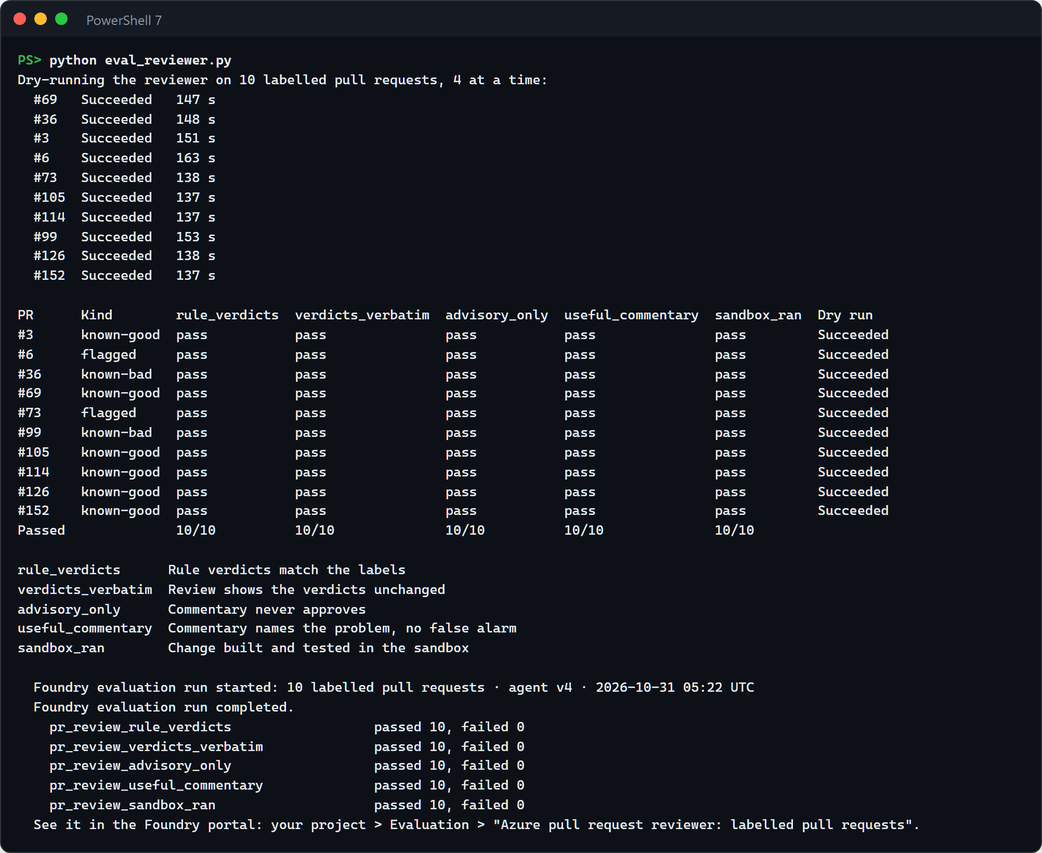
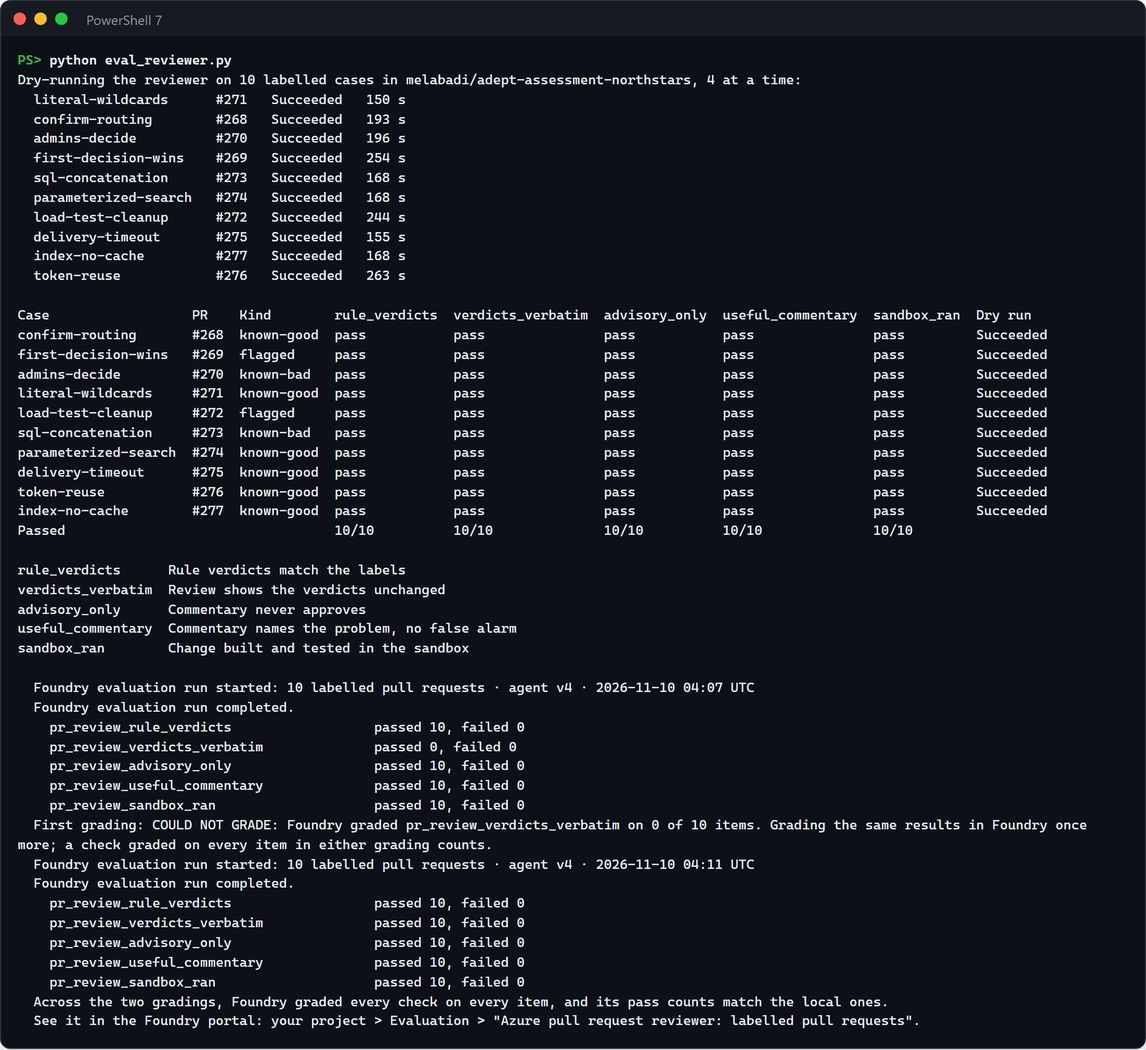
Fresh fork: document the evaluation's and the replay's setup, with results from the synthetic pull requests
03-develop-microsoft: set up with eval_reviewer.py --setup, dry run on admins-decide, results table by case and
pull request (10/10 on #268 to #277, Foundry matched after one regrade), --check-graders with case ids.
05-secure-github: replay_setup.py in Set up, Reset, and the nightly replay (variable SECURE_REPLAY_PR).

diff --git a/solutions/03-develop-microsoft/eval_reviewer.py b/solutions/03-develop-microsoft/eval_reviewer.py
@@ -373,7 +373,8 @@ def check_graders(local_only: bool) -> int:
                 break
             print("  Foundry couldn't grade some checks; grading the same reviews once more.")
     short = {name: name.removeprefix("pr_review_") for name in GRADERS}
-    print(f"\n{'Review':<24} {'Split':<9} " + " ".join(f"{s:<18}" for s in short.values()) + " Foundry")
+    width = max(len("Review"), *(len(row["id"]) for row in rows)) + 2
+    print(f"\n{'Review':<{width}} {'Split':<9} " + " ".join(f"{s:<18}" for s in short.values()) + " Foundry")
     wrong, differs, ungraded = [], [], []
     for row in rows:
         mine = local[row["id"]]
@@ -389,7 +390,7 @@ def check_graders(local_only: bool) -> int:
             differs.append(row["id"])
         else:
             column = "same"
-        print(f"{row['id']:<24} {row['split']:<9} " + " ".join(cells) + f" {column}")
+        print(f"{row['id']:<{width}} {row['split']:<9} " + " ".join(cells) + f" {column}")
     for split in ("paired", "held-out"):
         mine = [row for row in rows if row["split"] == split]
         right = sum(1 for row in mine if local[row["id"]] == row["expect"])

diff --git a/solutions/03-develop-microsoft/README.md b/solutions/03-develop-microsoft/README.md
@@ -15,7 +15,7 @@ Every pull request to RequestHub waits for a person to check the same team rules
 | Does it build, do the tests pass? | The reviewer pulls the branch, or waits for CI. | Built and tested in an isolated Azure sandbox; the review says what passed, what failed, and what was flaky. |
 | What deserves attention | The reviewer reads the whole diff to find out. | A Foundry agent explains each failed rule, flags what no rule covers (for example SQL built from user input), and says what the person should decide. |
 | Who decides | A person. | Still a person. The review is a comment; it never approves or requests changes. |
-| Is the reviewer any good? | Unknown. | Measured on ten labelled pull requests of this repository, in Foundry's Evaluation view. |
+| Is the reviewer any good? | Unknown. | Measured on ten labelled changes, recreated as pull requests of your repository, in Foundry's Evaluation view. |
 
 ## How it works
 
@@ -103,12 +103,15 @@ solutions/03-develop-microsoft/
 ├── demo/
 │   ├── fast-track.patch        the demo change: approvers may approve their own low-priority requests
 │   └── keep-the-guard.patch    the follow-up: keep the guard and add a regression test
-├── eval_cases.jsonl            ten labelled pull requests of this repository, each with the findings its review must state
+├── eval_cases.jsonl            ten labelled cases, each with the findings its review must state
+├── eval_changes/               each case's change: the app/ part of its original pull request (and its lab branch's)
+├── eval_prs.py                 --setup and --cleanup: the cases as closed pull requests of your repository, reused
 ├── grader_checks.jsonl         a right and a wrong review per finding, same words and same file: only the conclusion differs
 ├── review_graders.py           the five checks that score the reviewer (Foundry code-based evaluators)
-├── eval_reviewer.py            dry-runs the reviewer on the labelled pull requests and evaluates the results in Foundry;
+├── eval_reviewer.py            dry-runs the reviewer on the labelled cases and evaluates the results in Foundry;
 │                               --check-graders grades the fixed reviews in grader_checks.jsonl instead
 ├── test_eval_reviewer.py       tests for the scoring rules (python -m unittest)
+├── test_eval_prs.py            tests for the evaluation's pull requests: what they contain, and which ones count
 ├── test_configure_github.py    tests for the hooks: which webhook they touch, and that they never print its URL
 ├── test_reviewer_function.py   tests for the Function: the judge runs first, results travel as files, reviews only
 │                               comment, the token goes only to GitHub, forks and unsigned deliveries start nothing
@@ -176,11 +179,21 @@ Run these once, in PowerShell 7. You create one GitHub token and store it; `azd 
 
    Without the token, `azd up` still deploys everything and warns you, but creates no webhook, so no pull request is reviewed until you set the token and run `azd up` again.
 
-4. **Check it end to end** with a dry run on pull request #36, which posts nothing. It takes about 3 minutes and should print a row of ✅.
+4. **Create the evaluation's pull requests, and check it end to end.** The evaluation dry-runs the reviewer on ten labelled changes, which must be pull requests of your repository. `--setup` makes them once from [`eval_changes/`](eval_changes/): for each case, two branches, `eval/pr-review/<id>-base` and `eval/pr-review/<id>`, and one pull request between them, closed at once. Its commits are marked `[skip ci]`, so no workflow runs on them, and only a dry run ever reviews them. It keeps their numbers in the azd environment (`REVIEWER_EVAL_PRS`) and reuses them. Then a dry run on one of them, which posts nothing, checks the whole path. Setup took 2 minutes the first time and 7 seconds the second; the dry run takes about 3 minutes and should print a row of `pass`.
 
    ```powershell
-   python eval_reviewer.py --cases 36 --local
+   python eval_reviewer.py --setup
+   python eval_reviewer.py --cases admins-decide --local
    ```
+
+   ```text
+   Setting up the evaluation's pull requests in <owner>/<repo>:
+     confirm-routing        #268 (created)
+     ...
+     index-no-cache         #277 (created)
+   ```
+
+   Each case came from a pull request of the original repository, kept as its `example` in [`eval_cases.jsonl`](eval_cases.jsonl): `admins-decide` is [#36](https://github.com/melabadi/adept-assessment-northstars/pull/36). A copy of this repository needs the history of `main`, as a fork or a mirror push has: each case starts from a commit of it.
 
 ## Before each session
 
@@ -274,7 +287,7 @@ git push
 
 ### 7. Show how good the reviewer is (about 3 min)
 
-[`eval_reviewer.py`](eval_reviewer.py) dry-runs the reviewer on ten real pull requests of this repository, labelled known-good, flagged (a good change that a rule rightly sends to a person), or known-bad, and scores each result with five checks. In the Foundry portal, open **Evaluation** > *Azure pull request reviewer: labelled pull requests* and its latest run: one row per pull request, one column per check.
+[`eval_reviewer.py`](eval_reviewer.py) dry-runs the reviewer on ten labelled changes, known-good, flagged (a good change that a rule rightly sends to a person), or known-bad, and scores each result with five checks. Each is a closed pull request of your repository that `--setup` made from a real pull request of the original repository ([Set up](#set-up), step 4). In the Foundry portal, open **Evaluation** > *Azure pull request reviewer: labelled pull requests* and its latest run: one row per pull request, one column per check.
 
 Run it about 20 minutes before the session; it takes 9 to 13 minutes, a few more if Foundry grades it twice. It exits with 0 only when every check passed for every pull request. A pull request without a result fails every check (exit 1). A check that couldn't grade an item, or a Foundry run that is incomplete, has errored items, or disagrees with the local scores, exits with 2. Foundry's code-based evaluators sometimes fail every item of one check; the script then grades the same results in Foundry once more.
 
@@ -283,15 +296,15 @@ cd solutions/03-develop-microsoft
 python eval_reviewer.py
 ```
 
-![The evaluation in PowerShell: ten dry runs through the Function, each Succeeded in 137 to 163 seconds; an aligned table of the ten labelled pull requests (known-good, flagged, and known-bad) with pass in all five checks and 10/10 per check, whose columns carry the evaluators' names, with a legend giving each check's title; then the Foundry evaluation run for agent v4, where each of the five evaluators reports passed 10, failed 0](images/08-evaluation-terminal.png)
+![The evaluation in PowerShell: ten dry runs through the Function on the closed pull requests #268 to #277 that setup made, each Succeeded in 150 to 263 seconds; an aligned table of the ten cases by name and pull request (known-good, flagged, and known-bad) with pass in all five checks and 10/10 per check, whose columns carry the evaluators' names, with a legend giving each check's title; then the Foundry evaluation run for agent v4: the first grading couldn't grade verbatim verdicts on any item, so the script graded the same results once more, and across the two gradings Foundry graded every check on every item, 10 passed and 0 failed each, matching the local scores](images/08-evaluation-terminal.png)
 
 ![The same run in the Foundry portal's Evaluation view: 10 labelled pull requests, agent v4, completed, with each of the five evaluators (rule verdicts, verdicts verbatim, advisory only, useful commentary, sandbox ran) at 100%, 10 of 10, and every row passing 5 of 5](images/09-foundry-evaluation.png)
 
-**Point out:** pull request #99 pastes the search term into a SQL query. The rules only see that the code changed without a test, and the sandbox only sees one search test fail; the agent names the SQL injection. The labels are the team's judgement of real pull requests, so any change to the rules, the agent, or the model is measured the same way.
+**Point out:** `sql-concatenation`, [pull request #99](https://github.com/melabadi/adept-assessment-northstars/pull/99) in the original repository, pastes the search term into a SQL query. The rules only see that the code changed without a test, and the sandbox only sees one search test fail; the agent names the SQL injection. The labels are the team's judgement of real pull requests, so any change to the rules, the agent, or the model is measured the same way.
 
-Then show that the commentary check reads conclusions, not keywords: `python eval_reviewer.py --check-graders` grades a right and a wrong review for each finding, which use the same words and point at the same file and line. No dry run is needed; Foundry grades them in about 5 minutes, 10 when it has to grade once more, so start it before the session, and on stage run `python eval_reviewer.py --check-graders --local`, which grades the same reviews on your machine in a second. `99/reported` is the review "There is no SQL injection here." on #99: it mentions injection and points at `RequestWorkflow.cs`, so it earns the evidence half of the credit and fails. The held-out reviews are for changes outside the ten pull requests, written after the check was frozen.
+Then show that the commentary check reads conclusions, not keywords: `python eval_reviewer.py --check-graders` grades a right and a wrong review for each finding, which use the same words and point at the same file and line. No dry run is needed; Foundry grades them in about 5 minutes, 10 when it has to grade once more, so start it before the session, and on stage run `python eval_reviewer.py --check-graders --local`, which grades the same reviews on your machine in a second. `sql-concatenation/reported` is the review "There is no SQL injection here." on #99: it mentions injection and points at `RequestWorkflow.cs`, so it earns the evidence half of the credit and fails. The held-out reviews are for changes outside the ten cases, written after the check was frozen.
 
-![python eval_reviewer.py --check-graders: Foundry graded 17 fixed reviews, twice because it couldn't grade advisory_only on the first run and sandbox_ran on the second. Every right review passes all five checks, and every wrong one, including 99/reported, fails only useful_commentary; paired 11 of 11 and held-out 6 of 6 graded as labelled, and Foundry graded every one the same way as the local checks](images/10-check-graders.png)
+![python eval_reviewer.py --check-graders: Foundry graded 17 fixed reviews in one run. Every right review passes all five checks, and every wrong one, including sql-concatenation/reported, fails only useful_commentary; paired 11 of 11 and held-out 6 of 6 graded as labelled, and Foundry graded every one the same way as the local checks](images/10-check-graders.png)
 
 **Point out:** a known-bad finding counts only when a concern asserts it, at the place it happens. Right words with the wrong conclusion fail, and Foundry's evaluators run the same code as the local check.
 
@@ -300,9 +313,9 @@ Then show that the commentary check reads conclusions, not keywords: `python eva
 - **Minutes, not hours.** The first review arrives about two and a half minutes after the label, and again after every push.
 - **The same rules every time.** Five team rules, checked by a script from `main` with evidence for each verdict. A model can't talk its way past a FAIL.
 - **Evidence without pulling the branch.** The change was built and 81 tests ran in an isolated Azure session; the review says what passed and what was flaky.
-- **Attention where it matters.** The agent explains the failures and points at what no rule catches: SQL built from user input in #99, or a pull request whose code no longer matches its title.
+- **Attention where it matters.** The agent explains the failures and points at what no rule catches: SQL built from user input in the `sql-concatenation` case (#99), or a pull request whose code no longer matches its title.
 - **A person decides.** The Function posts every review as a comment (`COMMENT`), never as an approval or a change request, and its token can't merge (it can't write code). The token's Pull requests permission could approve a pull request, so the guard is the Function's code, and a test fails if `APPROVE` or `REQUEST_CHANGES` appears anywhere in it. Change it only through a reviewed pull request, like any other code.
-- **Measured, not anecdotal.** Ten labelled pull requests and five checks in Foundry's Evaluation view, run again after every change to the rules, the agent, or the model. The commentary check scores what the agent concludes and where it points, not the words it uses: "There is no SQL injection here" on #99 earns half the credit for pointing at the right file, and fails. The AI writes the commentary, deterministic checks score the rules and the commentary, and a person decides the pull request.
+- **Measured, not anecdotal.** Ten labelled cases and five checks in Foundry's Evaluation view, run again after every change to the rules, the agent, or the model. The commentary check scores what the agent concludes and where it points, not the words it uses: "There is no SQL injection here" on the `sql-concatenation` case earns half the credit for pointing at the right file, and fails. The AI writes the commentary, deterministic checks score the rules and the commentary, and a person decides the pull request.
 
 ## Reset and clean up
 
@@ -315,9 +328,10 @@ gh pr close demo/fast-track --delete-branch --comment "Demo finished; closing wi
 
 To remove everything:
 
-1. `azd down --purge` in this folder. Its predown hook deletes the webhook first; then azd deletes the resource group and the Foundry account with its evaluations, and purges the account and the Key Vault, so the same names can be used again at once.
-2. On GitHub, delete the fine-grained token: **Settings** > **Developer settings** > **Fine-grained tokens**.
-3. `gh label delete "review:azure"` if you no longer need the label. Past pull requests lose it.
+1. `python eval_reviewer.py --cleanup` in this folder, while you still have the azd environment: it deletes the evaluation's twenty `eval/pr-review/*` branches and forgets their pull requests, which stay closed.
+2. `azd down --purge` in this folder. Its predown hook deletes the webhook first; then azd deletes the resource group and the Foundry account with its evaluations, and purges the account and the Key Vault, so the same names can be used again at once.
+3. On GitHub, delete the fine-grained token: **Settings** > **Developer settings** > **Fine-grained tokens**.
+4. `gh label delete "review:azure"` if you no longer need the label. Past pull requests lose it.
 
 ## Use it in your own repository
 
@@ -329,7 +343,7 @@ Copy this folder and change:
 - **The agent:** the instructions in [`reviewer-agent.yaml`](reviewer-agent.yaml) describe RequestHub; describe your application instead. `python publish_reviewer_agent.py` publishes a new version.
 - **Where the scripts live:** the `REVIEW_SCRIPTS_PATH` app setting in [`infra/resources.bicep`](infra/resources.bicep) (default `solutions/03-develop-microsoft/sandbox`), and `REVIEW_CHECKER_REF` in the azd environment (default `main`) for the branch the Function reads them from.
 - **The review's steps:** [`function/reviewer/pipeline.py`](function/reviewer/pipeline.py), with the tests in [`test_reviewer_function.py`](test_reviewer_function.py) that keep the judge first, the token away from the sessions, and the review a comment. `azd deploy` runs them first and stops if one fails.
-- **The evaluation:** replace [`eval_cases.jsonl`](eval_cases.jsonl) with your own labelled pull requests. For each flagged or known-bad one, list the findings its review must state: a few positive words that say the problem (`sql injection`, `alter* the query`) and the file where it is. A known-bad finding counts only as a concern. Add a right and a wrong review per finding to [`grader_checks.jsonl`](grader_checks.jsonl), with the same words and the same file, and run `python eval_reviewer.py --check-graders`: it shows, here and in Foundry, that the check tells them apart.
+- **The evaluation:** replace [`eval_cases.jsonl`](eval_cases.jsonl) with your own labelled changes: an `id`, the commit of your default branch the change starts from (`root`), and the change itself as `eval_changes/<id>.patch` (`git diff --binary <root> <head> -- <your app folder>`), plus `eval_changes/<id>.base.patch` when it targeted another branch; then run `python eval_reviewer.py --setup`. For each flagged or known-bad one, list the findings its review must state: a few positive words that say the problem (`sql injection`, `alter* the query`) and the file where it is. A known-bad finding counts only as a concern. Add a right and a wrong review per finding to [`grader_checks.jsonl`](grader_checks.jsonl), with the same words and the same file, and run `python eval_reviewer.py --check-graders`: it shows, here and in Foundry, that the check tells them apart.
 - **For a team, prefer a GitHub App to a personal token:** a GitHub App's installation token isn't tied to a person and can be limited to the same two permissions.
 - **What Azure keeps:** the Function logs one line per step to Application Insights, with the review's id, the commit, and counts, but no code, diff, or review; Log Analytics keeps it for 30 days. A dry run's result, including the review it would have posted, stays in the storage account's `dry-runs` container for 7 days, then a lifecycle rule deletes it. Only the Function's identity has a data role on that storage account, which has no public network access.
 
@@ -346,4 +360,6 @@ Copy this folder and change:
 | **Recent Deliveries** show 202, but no review appears. | Run step 3's query. If the review's last lines say `failed at '<step>'`, the pull request got a comment that the review couldn't finish; remove and add the label to try again. `failed at 'check the team rules'` with "the rule checker wrote no verdicts (exit code 2)" means the checker couldn't read the archives: run it on the same pull request on your machine, `python sandbox/review_rules.py --base <merge-base folder> --head <head folder>`. A line that says `not posted: <commit> was pushed while this review ran` is expected: the newer push gets its own review. |
 | A review says a web test failed with "Test timed out in 5000ms". | The sandbox's four vCPUs are shared by the test workers, so a test can take longer than on CI. [`run_change.sh`](sandbox/run_change.sh) gives each web test 30 seconds and repeats a failed run once, and the review calls a test that passes on the rerun flaky. |
 | `eval_reviewer.py` stops with "This operation requires the following opt-in preview feature(s): Evaluations=V1Preview". | Custom evaluators are in preview and need an opt-in header, which the script sends. If the preview changes, run with `--local`: the local scores use the same checks. |
+| `eval_reviewer.py` stops with "the evaluation's pull requests aren't set up in &lt;owner&gt;/&lt;repo&gt;". | The cases have no pull request in that repository yet, for example in a new copy. Run `python eval_reviewer.py --setup` once: it creates them, or finds the ones it created before. It accepts only pull requests on its own `eval/pr-review/*` branches, in this repository, opened by the owner, a member, or a collaborator. |
+| `--setup` stops with "commit … isn't in … history". | The copy doesn't have the history of `main`, for example one created from a template. Make it a fork, or push a full clone (`git push --mirror`), then run `--setup` again. |
 | `eval_reviewer.py` ends with "COULD NOT GRADE: Foundry graded pr_review_&lt;check&gt; on 0 of 10 items". | Foundry's code-based evaluators (preview) failed every item of that check twice in a row; in the run's results, each item says "An error occurred during grading". The local scores above the error stand. A few minutes later, run `python eval_reviewer.py --reuse`: it grades the same results in Foundry again, without new dry runs (about 4 minutes). |

diff --git a/solutions/05-secure-github/README.md b/solutions/05-secure-github/README.md
@@ -63,6 +63,7 @@ pull request with a read-only token and no secrets, once someone with write acce
 ├── remediate-task.md                      acceptance criteria copied into the remediation Issue
 ├── lab/code-finding.patch                 deliberately unsafe query, stored as data only on main
 ├── regression/SearchSecurityTests.cs      identical regression used before and after repair
+├── replay_setup.py                        once per repository: the repair pull request the nightly replay uses
 ├── tests/test_security_tools.py           parser/guard unit tests, NOT demo evidence
 └── .github/
     ├── agents/secure-github.agent.md
@@ -114,6 +115,24 @@ $repo = gh repo view --json nameWithOwner -q .nameWithOwner
 ```
 
 No Azure provisioning, access-policy changes, package installation or deployment is needed.
+
+For the [nightly replay](#nightly-replay-and-lasting-evidence), give it a repair pull request to replay, once per
+repository. In a copy without one, the script makes a reference repair from this folder's files on three `lab/secure-replay*`
+branches, opens and closes the pull request, and stores its number in the repository variable `SECURE_REPLAY_PR`:
+
+```powershell
+python solutions/05-secure-github/replay_setup.py
+```
+
+```text
+Created #1: lab/secure-replay-repair -> lab/secure-replay, closed.
+SECURE_REPLAY_PR = 1: the nightly replay uses it.
+```
+
+Run it again and it reuses the same pull request;
+`--status` says what the nightly run will use. After a live run of the demo, `--adopt <repair PR>` replays Copilot's
+own repair instead, as this repository does with `--adopt 105`. Its commits are marked `[skip ci]`, so no workflow runs on
+those branches.
 Before preparing a lab in an adopter's repo, check that **all deployment/release workflows exclude `lab/secure-*`
 and `copilot/*`**. Do not dispatch any deployment from those refs. In this repository, app CI only builds/tests,
 and release-candidate preflight requires `main`; the security workflows never deploy.
@@ -122,7 +141,8 @@ and release-candidate preflight requires `main`; the security workflows never de
 
 - Confirm the previous run's lab and repair PRs are closed **without merging**, its Issue is closed, and its temporary
   branches are gone. Use `gh pr list --state open`, `gh issue list --label phase:secure --state open` and
-  `git ls-remote --heads origin 'lab/secure-*'`; do not close or delete another presenter's work.
+  `git ls-remote --heads origin 'lab/secure-*'`; do not close or delete another presenter's work. The three
+  `lab/secure-replay*` branches belong to the nightly replay and stay.
 - Fetch `origin/main`, confirm a clean worktree with `git status --short`, and verify that the default branch contains
   the `secure-github` agent, the regression reference and `secure-github-verify.yml`. The lab must start from safe
   `main`, not a previous unsafe or repaired branch.
@@ -280,9 +300,15 @@ Use your new run's numbers in the commands, not those historical examples.
 ## Nightly replay and lasting evidence
 
 The replay workflow runs at **midnight Eastern** (`America/New_York`): 05:00 UTC in winter and 04:00 UTC in summer.
-It runs from the default branch and replays the recorded repair **PR #105** against real PostgreSQL.
-It fetches the commits from the PR record, so the deleted lab branches do not need to be recreated.
-Manual dispatch still accepts another same-repository repair PR targeting `lab/secure-*`.
+It runs from the default branch and replays the repair pull request whose number is in the repository variable
+`SECURE_REPLAY_PR` ([Set up](#set-up)) against real PostgreSQL. Here that is the recorded repair **PR #105**, Copilot's
+repair from the screenshot run; in a fresh copy, `replay_setup.py` makes a reference repair instead. Either way the
+workflow first checks that the pull request's branch is in this repository and that it targets a `lab/secure-*` branch.
+It fetches the commits from the PR record, so deleted lab branches do not need to be recreated.
+Manual dispatch still accepts another same-repository repair PR targeting `lab/secure-*`. A run with neither the
+variable nor a `pr` input fails at once and says what setup is missing. In a copy with no pull request history, the
+reference repair replayed in 87 seconds: 6 of the 10 regression cases failed before the repair and all 10 passed after,
+as with #105.
 
 This is a deterministic replay, **not a new Copilot demo**: no new Issue, PR, review, agent session, token or secret.
 Permissions remain read-only, runs share a concurrency group, and the workflow never pushes, commits or comments.
@@ -375,6 +401,10 @@ Do not delete the downloaded evidence when resetting the demo.
 Keep the evidence on the delivery PR. The next run uses a new timestamp and clean `origin/main`, so no existing
 branch or Issue is overwritten. Do not delete another session's branches, worktrees, databases or artifacts.
 
+The nightly replay's pull request stays between sessions. To remove it too, run
+`python solutions/05-secure-github/replay_setup.py --cleanup`: it closes the reference repair, deletes its three
+`lab/secure-replay*` branches, and removes `SECURE_REPLAY_PR`; it never touches an adopted pull request.
+
 ## Use it in your own repository
 
 Copy this folder's `.github/` files into your root `.github/`. Keep workflow/action pins, replace RequestHub paths,
@@ -382,7 +412,8 @@ test commands and the API fixture with your own, and write a **small, undeployed
 Update `SOURCE`, `TEST`, `WORKFLOW`, method boundaries and the ten-case expectation in the two Python tools.
 Replace the supplied regression with assertions for your actual behavior and negative authorization cases.
 Require detection before remediation and keep tests-only and fix commits separate. Never place the training defect
-on the default branch. Configure branch rulesets so deployment workflows cannot run lab refs.
+on the default branch. Configure branch rulesets so deployment workflows cannot run lab refs. For the nightly replay,
+run `replay_setup.py` once in your repository, or `--adopt` a repair pull request of your own.
 
 For tooling changes, run:
 

diff --git a/PRESENTING.md b/PRESENTING.md
@@ -24,7 +24,7 @@ Whatever the format, tell the same story: one app, RequestHub, goes through ever
 | [02-design-github](solutions/02-design-github/) | 25 min | If you show the cloud agent (option B), assign it at least 30 minutes before; it takes about 12. Request Copilot's code review early: it takes 4 to 5 minutes. |
 | [02-design-microsoft](solutions/02-design-microsoft/) | 15 min | Run the Foundry evaluation (`python evaluate.py`, in the solution folder) about 15 minutes before step 8; it takes 3 to 7 minutes, plus 3 to 5 for each run it starts again because Foundry's preview grader couldn't score it. Show its summary as it came out: the first attempt's passed, failed, and ungraded cases, then each retry and why. In the run the README shows, the first attempt passed 5 cases, Foundry couldn't grade the other 5, and the retry's new answers passed them. Also start `python evaluate.py --check-graders` (about 3 minutes) for step 8's right and wrong answers. Open the agent's Playground in advance (it takes up to a minute to load). |
 | [03-develop-github](solutions/03-develop-github/) | 25 min | Create the Issue and assign it to Copilot at least 30 minutes before: it works for 20 to 30. Run the Copilot CLI step (about 20 minutes) beforehand too. |
-| [03-develop-microsoft](solutions/03-develop-microsoft/) | 20 min | Run the reviewer's dry run on pull request #36 (about 3 minutes) to confirm its GitHub token still works. For fresh evaluation results, start `eval_reviewer.py` about 20 minutes before, and `eval_reviewer.py --check-graders` (5 to 10 minutes) for step 7's right and wrong reviews. |
+| [03-develop-microsoft](solutions/03-develop-microsoft/) | 20 min | Run the reviewer's dry run on the `admins-decide` case (`python eval_reviewer.py --cases admins-decide --local`, about 3 minutes) to confirm its GitHub token still works; a new copy needs `python eval_reviewer.py --setup` once first. For fresh evaluation results, start `eval_reviewer.py` about 20 minutes before, and `eval_reviewer.py --check-graders` (5 to 10 minutes) for step 7's right and wrong reviews. |
 | [04-test-github](solutions/04-test-github/) | 20 min | Rebuild the lab branch and assign the Issue to Copilot 30 minutes before: it works for 15 to 30. The optional Copilot CLI step takes 12 to 18 minutes. |
 | [04-test-microsoft](solutions/04-test-microsoft/) | 30 min (45 fully live) | Start the baseline Azure Load Testing run from the portal about 10 minutes before its step: a run reaches its verdict in 8 to 9 minutes, and the Azure Function reports it about 2 minutes later. Start the final passing run during questions. |
 | [05-secure-github](solutions/05-secure-github/) | 15 min | Prepare the lab and start the review and the cloud agent 30 to 45 minutes before: the review took about 6 minutes and the repair 15 in the screenshot run. |
